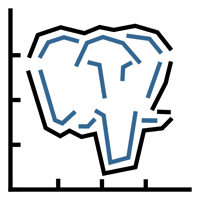
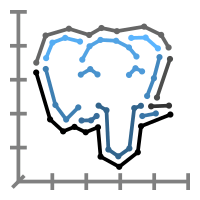
Refresh screenshots and add wait events example to README

Changed region(s): [[0.03, 0.03, 0.96, 0.96]]

diff --git a/README.md b/README.md
@@ -13,6 +13,8 @@ PostgreSQL performance over time and potentially aiding in performance tuning an
 Optionally, an [AI analysis](#ai-analysis-optional) mode can produce per-module HTML reports
 with chart commentary from a cloud LLM (Claude or Gemini) or a local model via Ollama.
 
+[![Wait events](src/pg_statviz/libs/pg_statviz_srv.example.com_5432_wait.png)](src/pg_statviz/libs/pg_statviz_srv.example.com_5432_wait.png)
+
 ## Design Philosophy
 
 Designed with the [K.I.S.S.](https://en.wikipedia.org/wiki/KISS_principle) and
@@ -237,16 +239,17 @@ The visualization utility can be called like a PostgreSQL command line tool:
 
 ### Example:
 
-    pg_statviz buf --host localhost -d postgres -U postgres -D 2026-01-01T00:00 2026-01-01T23:59
+    pg_statviz buf --host srv.example.com -d postgres -U postgres -D 2025-06-01T00:00 2025-12-31T23:59
 
 ### Produces:
-![buf output sample](src/pg_statviz/libs/pg_statviz_localhost_5432_buf.png)
+[![buf output sample](src/pg_statviz/libs/pg_statviz_srv.example.com_5432_buf.png)](src/pg_statviz/libs/pg_statviz_srv.example.com_5432_buf.png)
 
 [comment]::
 
-![buf output sample (rate)](src/pg_statviz/libs/pg_statviz_localhost_5432_buf_rate.png)
+[![buf output sample (rate)](src/pg_statviz/libs/pg_statviz_srv.example.com_5432_buf_rate.png)](src/pg_statviz/libs/pg_statviz_srv.example.com_5432_buf_rate.png)
 
-![conf output sample](src/pg_statviz/libs/pg_statviz_localhost_5432_conf.png)
+### Configuration changes:
+[![conf output sample](src/pg_statviz/libs/pg_statviz_srv.example.com_5432_conf.png)](src/pg_statviz/libs/pg_statviz_srv.example.com_5432_conf.png)
 
 ## AI Analysis (optional)
 
@@ -292,7 +295,7 @@ When the `analyze` subcommand is invoked with `--ai`, an additional top-level
 per-module verdicts into a single cross-cutting summary, correlating patterns
 across charts and surfacing the single most important next action.
 
-![AI report sample](src/pg_statviz/libs/pg_statviz_ai_report_sample.png)
+[![AI report sample](src/pg_statviz/libs/pg_statviz_ai_report_sample.png)](src/pg_statviz/libs/pg_statviz_ai_report_sample.png)
 
 ### How the analysis is grounded
 
